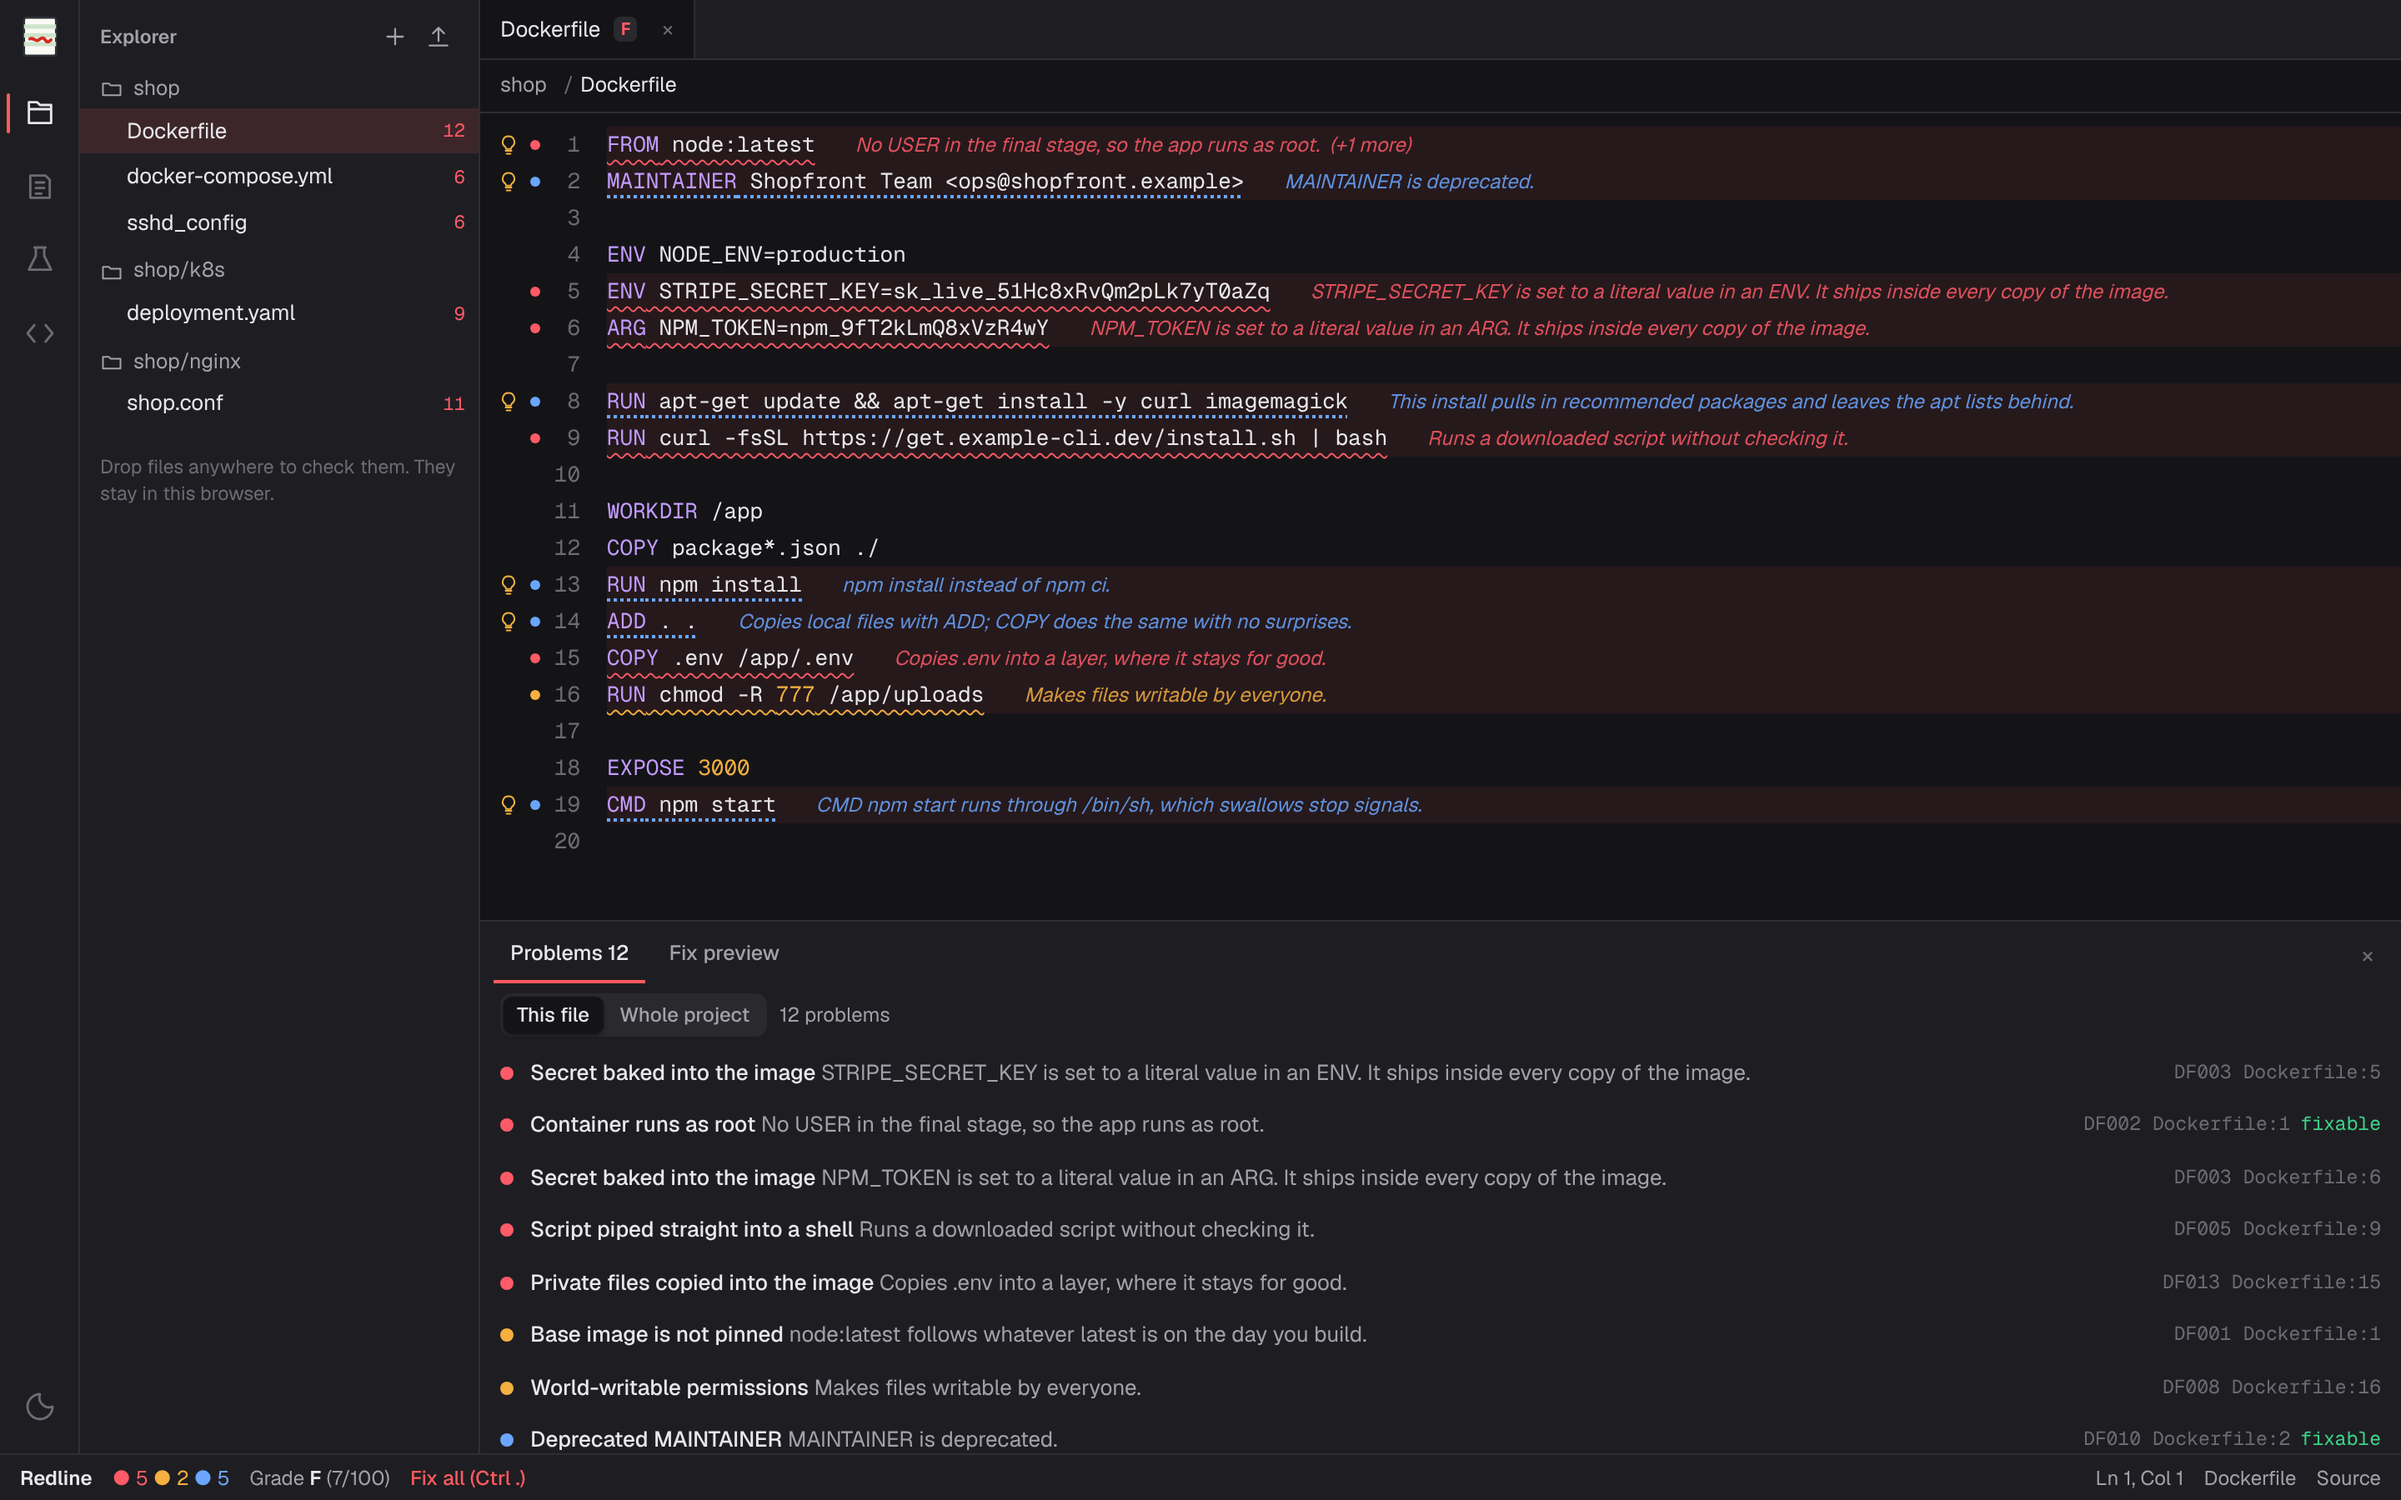
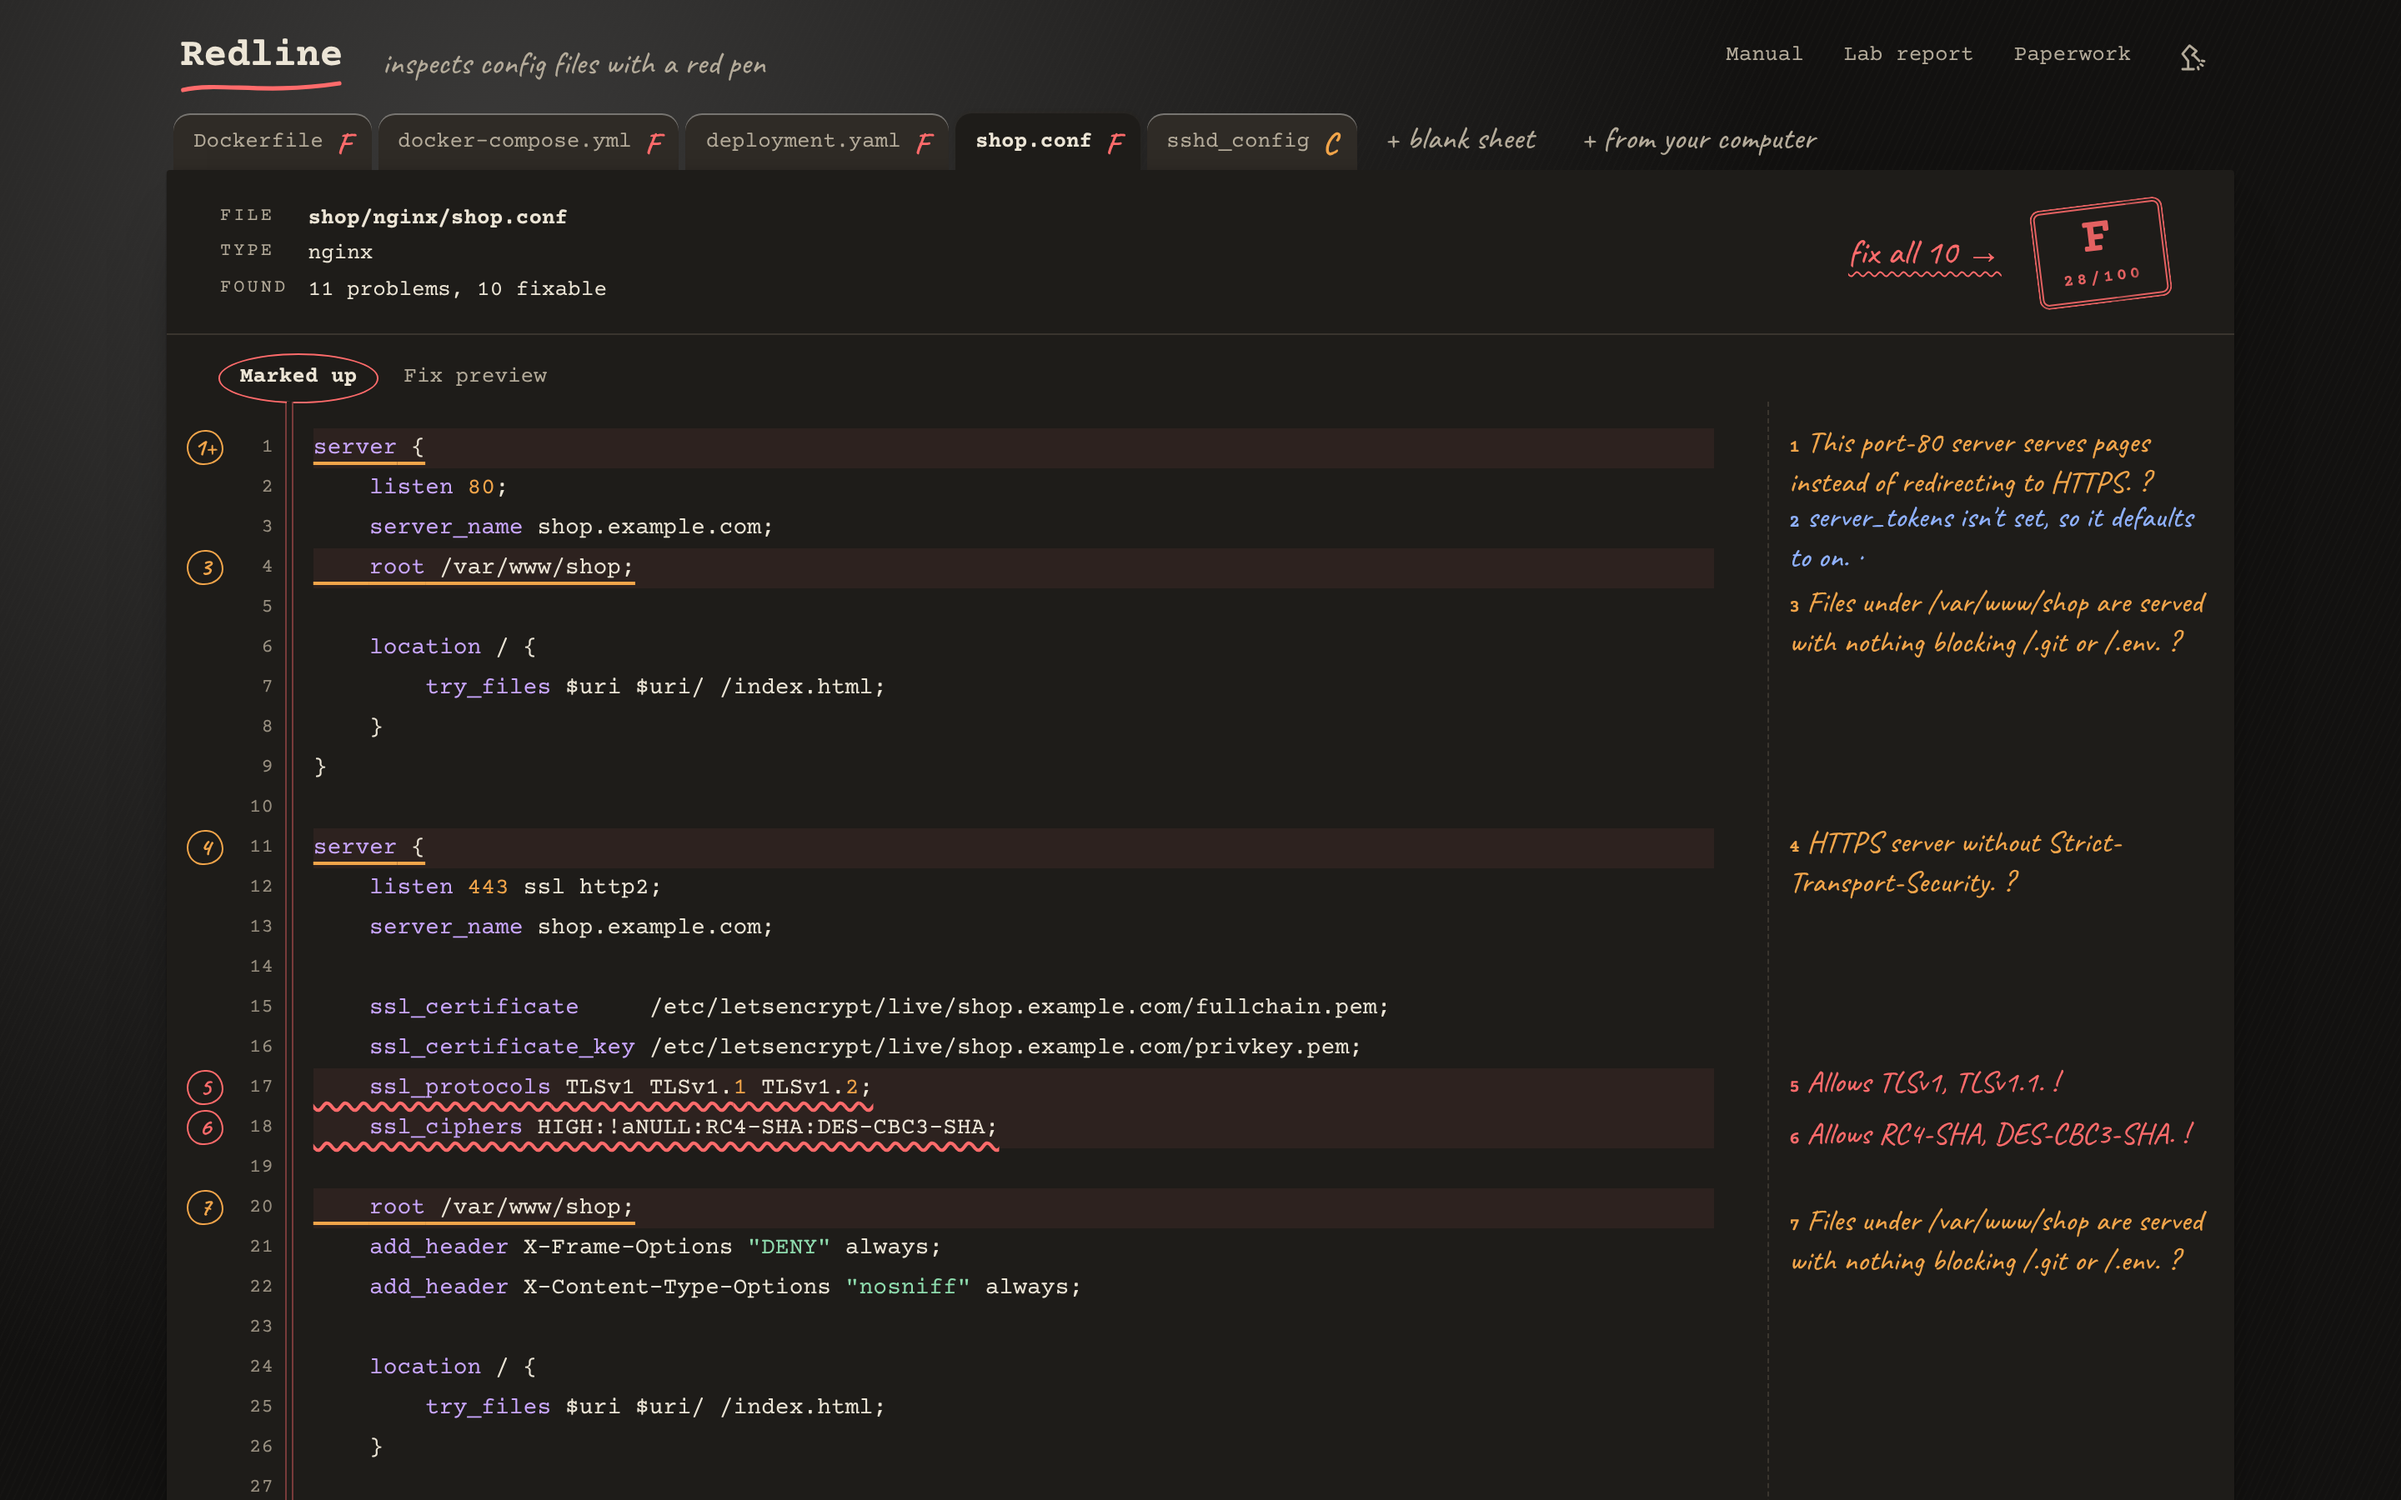
README: describe and show the new design

diff --git a/README.md b/README.md
@@ -1,13 +1,13 @@
-# Redline · A code editor that finds security mistakes in config files
+# Redline · An inspector with a red pen for your config files
 
 
-Redline reads the config files that decide how secure a server is (**Dockerfiles, Docker Compose, Kubernetes manifests, nginx and sshd_config**) in an editor that works like VS Code. Mistakes get a wavy red underline as you type, with a short note at the end of the line, and each problem has a plain-English explanation: what is wrong on that line, why it matters, and how to fix it. For 37 of the 60 rules Redline writes the fix too, and a lightbulb next to the line applies it, so you get a corrected file or a patch you can apply with `git apply`.
+Redline reads the config files that decide how secure a server is (**Dockerfiles, Docker Compose, Kubernetes manifests, nginx and sshd_config**) the way an inspector marks up a printed page. Each file is a typed sheet. Every problem gets a circled number in the margin, an underline in red pen (critical and high), orange pencil (medium) or blue pencil (low), and a handwritten note beside the line. The notes are numbered like footnotes and say in plain English what is wrong on that line, why it matters, and how to fix it. The grade is stamped at the top. It all updates as you type. For 37 of the 60 rules Redline writes the fix too, so you get a corrected file or a patch you can apply with `git apply`.
 
 **Live demo: [redline-config-auditor.vercel.app](https://redline-config-auditor.vercel.app)**
 
 It runs in the browser (nothing is uploaded), on the command line, as a GitHub Action that puts findings on pull requests, and as an API.
 
-![The editor with squiggles on a Dockerfile](docs/screenshots/editor.png)
+![A Dockerfile marked up by Redline: circled numbers, red-pen underlines, margin notes and a stamped grade](docs/screenshots/editor.png)
 
 ## Why
 
@@ -21,21 +21,23 @@ Some of the checks catch traps that experienced people still fall into:
 - **nginx `add_header` inheritance:** one `add_header` in a location silently drops every security header set on the server.
 - **Docker bypasses ufw:** `"5432:5432"` in compose opens the database to the internet even with a firewall on. Redline rewrites it to `127.0.0.1:5432:5432`.
 
-![Quick fixes from the lightbulb](docs/screenshots/quick-fix.png)
+![The index card for one line, with its fix](docs/screenshots/quick-fix.png)
 
 ## Fixing
 
 Three ways, all with undo:
 
-- Click the **lightbulb** next to a line to fix that problem (Ctrl . fixes everything that can be fixed).
-- Open **Fix preview** in the bottom panel, untick the fixes you don't want, and see the change as a diff: green lines are written in, struck lines are taken out. Apply it, download the fixed file, or copy it as a patch.
+- Click a **circled number** in the margin to open that line's index card, then fix the problem from there. **Fix all**, next to the stamp, fixes everything that can be fixed (or press Ctrl .).
+- Open **Fix preview** to see the fixes as proofreading marks: lines marked `dele` are struck out, lines marked `‸` are written in. Untick the fixes you don't want. Apply it, download the fixed file, or copy it as a patch.
 - Or just edit the file: it is checked again on every key press.
 
-The Problems panel lists everything in the file or the whole project; click one to jump to its line and read why it matters. Your files and edits stay in your browser. Fixes are written as small line edits, so your comments and layout stay as they were, and several fixes to the same Kubernetes container are merged into one `securityContext` block.
+The **inspector's notes** under the sheet list everything on this sheet or on every sheet; click one to jump to its line and read why it matters. On a phone the margin notes become these footnotes. Your files and edits stay in your browser. Fixes are written as small line edits, so your comments and layout stay as they were, and several fixes to the same Kubernetes container are merged into one `securityContext` block.
 
 ![Fix preview](docs/screenshots/fix-preview.png)
 
-![Dark theme](docs/screenshots/dark.png)
+![With the lamp turned down (dark theme)](docs/screenshots/dark.png)
+
+![On a phone](docs/screenshots/mobile.png)
 
 ## Results
 
@@ -51,7 +53,7 @@ From `npm run evaluate` (the same files run as unit tests on every push):
 
 **What this does and doesn't prove.** The 25 test files were written by hand and labelled with the problems they contain. Every rule is covered, but it is a small set: real configs with unusual layouts can still trip a rule or slip past one. The rules are pattern-based and don't know your context (a monitoring agent may really need host access), which is why each automatic fix can be unticked.
 
-![Test bench](docs/screenshots/bench.png)
+![The lab report](docs/screenshots/bench.png)
 
 ### On other projects' test files
 
